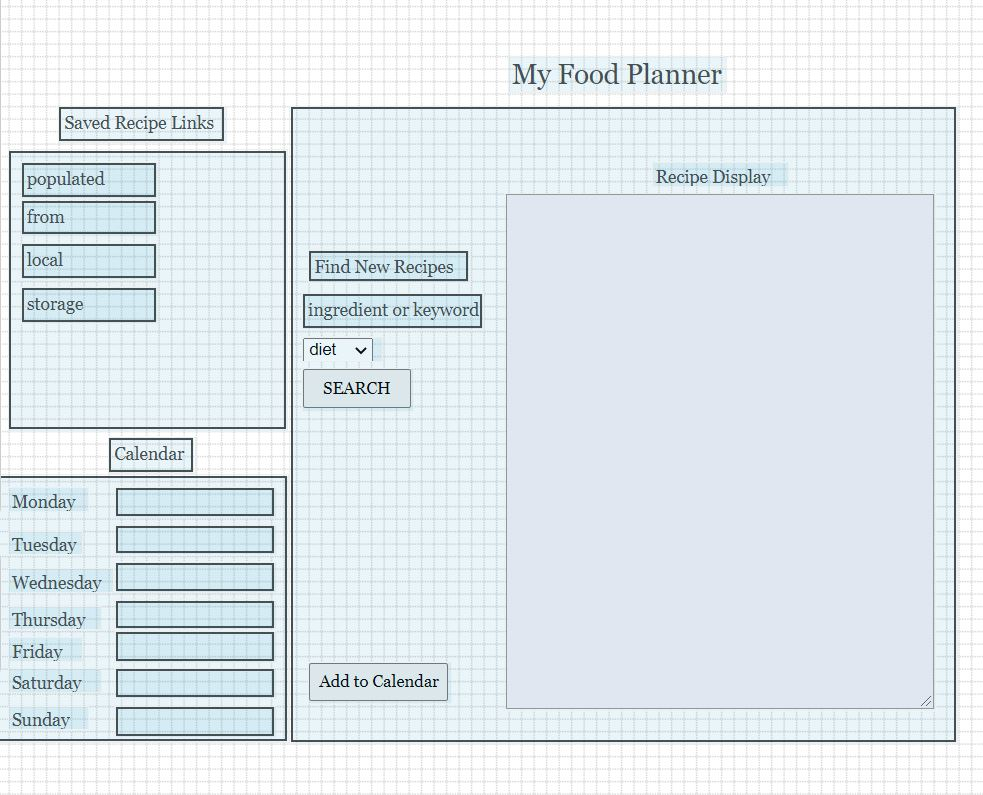
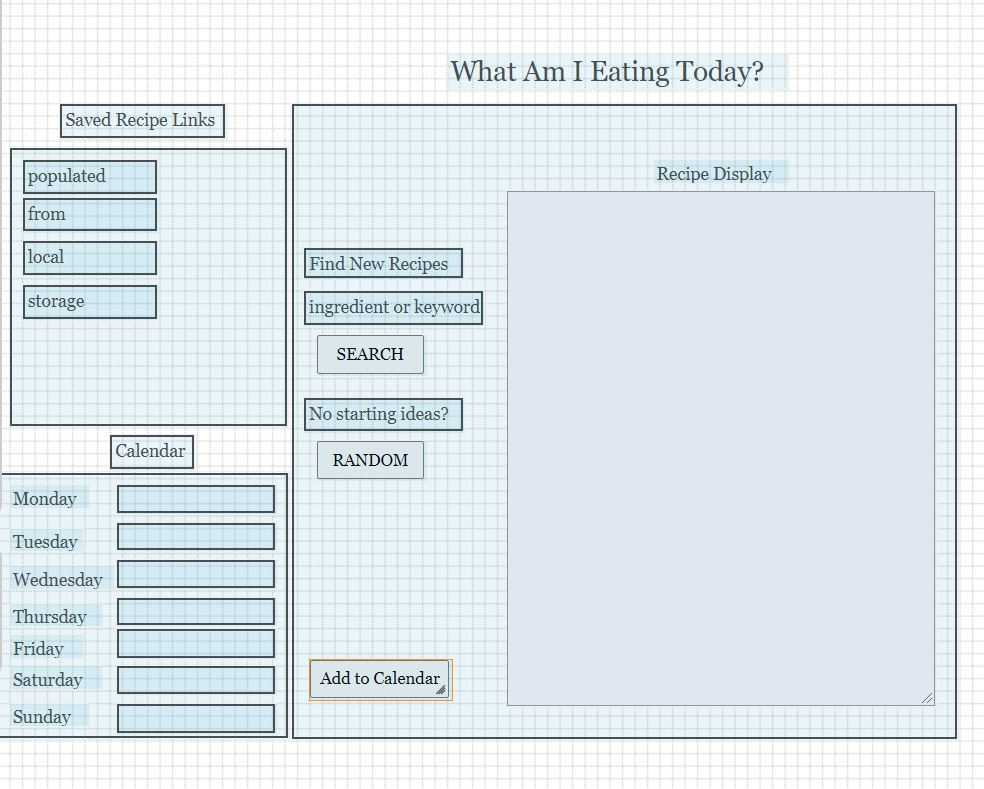
updated wireframe

diff --git a/README.md b/README.md
@@ -5,6 +5,10 @@
 ## Project Description: 
 Search for your recipes by ingredient and save links to a built-in weekly calender. If you don't have any special ingredients you want to use, you can push the random recipe button for a list of 10 random recipes to choose from.
 
+## APIs Used:
+- TheMealDB to pull a random selection of recipes
+- RecipePuppy to search recipes by ingredient
+
 ![Wireframe](/assets/wireframe.jpg)
 ## User Story: 
 AS A hungry person
